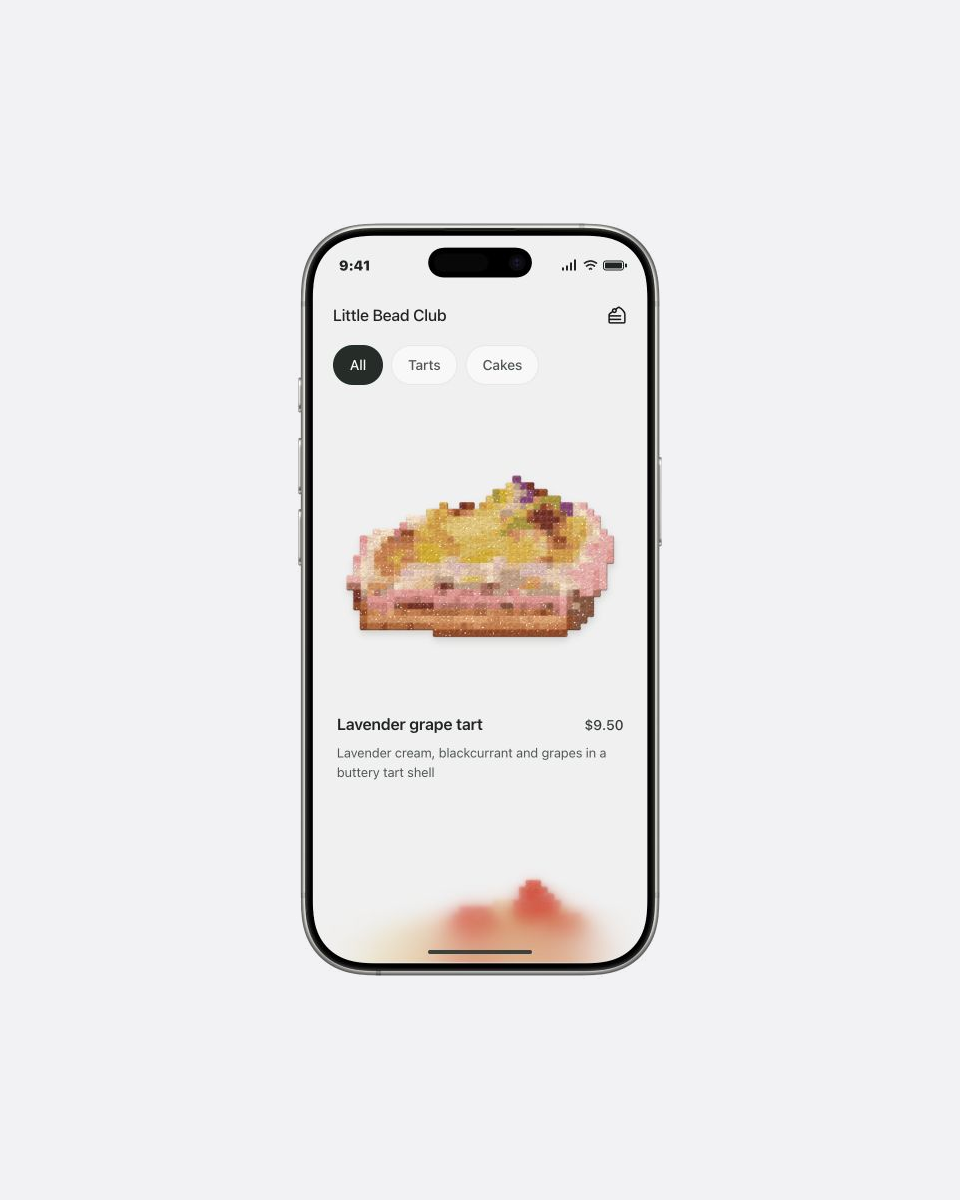
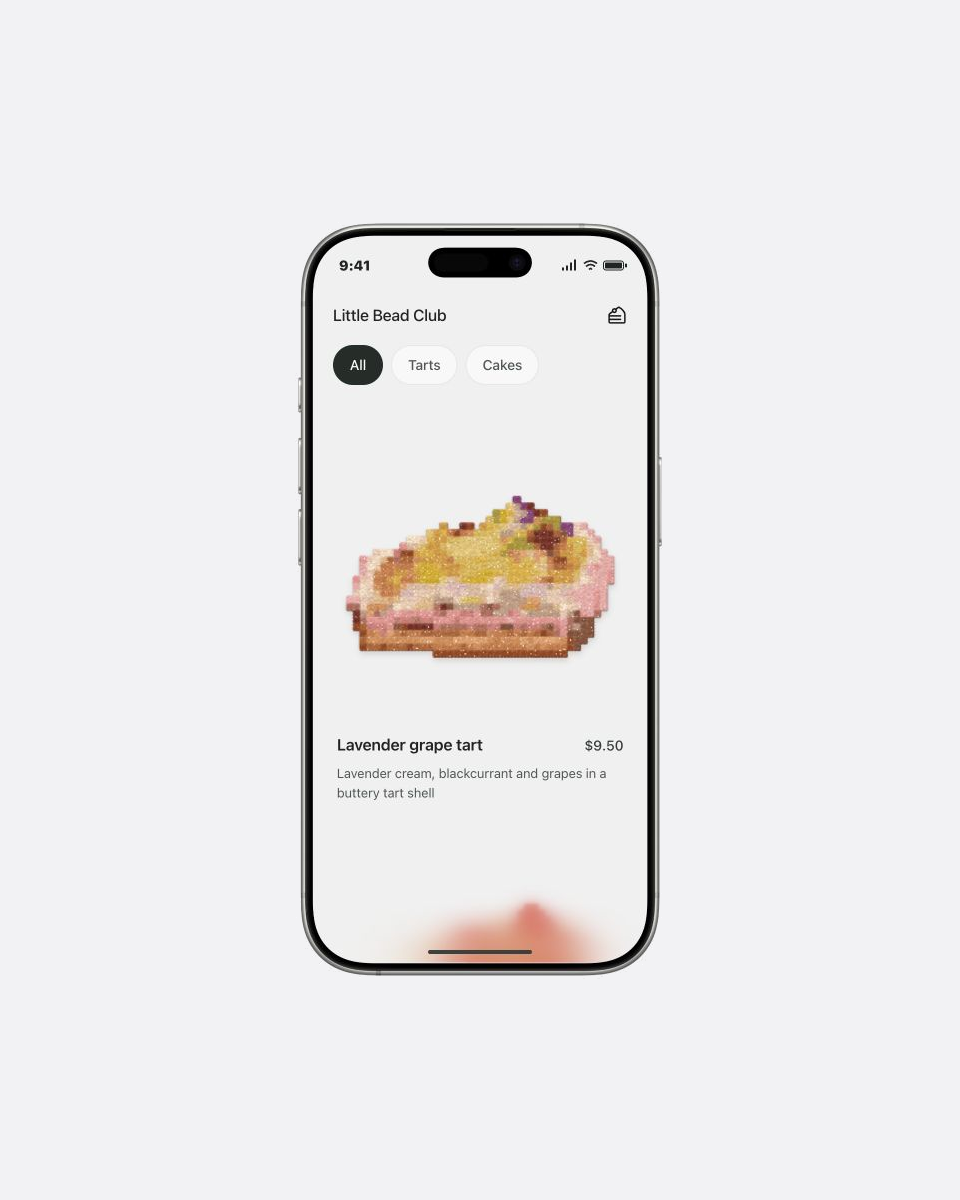
Add gentle 3D cake sparkle and centered scroll zoom [skip deploy]

Changed region(s): [[0.3438, 0.4008, 0.6562, 0.555], [0.3438, 0.5858, 0.6562, 0.6783], [0.375, 0.7092, 0.625, 0.8017]]

diff --git a/components/play/bead-club/bead-club.tsx b/components/play/bead-club/bead-club.tsx
@@ -17,6 +17,7 @@ type BeadMaterial = "pressed" | "frosted" | "glitter" | "terry" | "jelly";
 type Artwork = { id: string; name: string; price: string; description: string; detailDescription: string; category: "Tarts" | "Cakes"; beads: Bead[]; material: BeadMaterial; translucentColors?: readonly string[] };
 const PHONE_HEIGHT = 390 * 2822 / 1406;
 const APP_BACKGROUND = "#f2f2f2";
+const CAKE_FOCUS_OFFSET = 50;
 // Simplified from the user-supplied cake illustration sheet. Each occupied cell
 // represents one bead, with exactly 700 beads per cake and a limited color palette.
 // The reference artwork retains its own rights, separate from the component code.
@@ -1047,7 +1048,7 @@ function physicalMaterials(art: Artwork): BeadMaterials {
   return { faces: [face, side], mask: jelly ? new THREE.MeshBasicMaterial({ color: 0xffffff, alphaMap: opacityMap, transparent: true, depthWrite: true }) : undefined };
 }
 
-type BeadStudio = { renderer: THREE.WebGLRenderer; scene: THREE.Scene; camera: THREE.OrthographicCamera; mesh: THREE.Mesh; materials: Map<string, BeadMaterials>; completed: Map<string, THREE.BufferGeometry> };
+type BeadStudio = { renderer: THREE.WebGLRenderer; light: THREE.DirectionalLight; scene: THREE.Scene; camera: THREE.PerspectiveCamera; mesh: THREE.Mesh; materials: Map<string, BeadMaterials>; completed: Map<string, THREE.BufferGeometry> };
 let beadStudio: BeadStudio | undefined;
 let beadWebGLUnavailable = false;
 function getBeadStudio() {
@@ -1068,18 +1069,19 @@ function getBeadStudio() {
   light.shadow.mapSize.set(512, 512); light.shadow.bias = -.0002; light.shadow.normalBias = .03; light.shadow.radius = 3.5;
   scene.add(light);
   const mesh = new THREE.Mesh(new THREE.BufferGeometry(), new THREE.MeshPhysicalMaterial()); mesh.castShadow = true; mesh.receiveShadow = true; scene.add(mesh);
-  const camera = new THREE.OrthographicCamera(-23, 23, 23, -23, .1, 180); camera.position.set(0, 0, 95); camera.up.set(0, 1, 0); camera.lookAt(0, 0, 0);
-  beadStudio = { renderer, scene, camera, mesh, materials: new Map(), completed: new Map() };
+  const camera = new THREE.PerspectiveCamera(27, 1, .1, 180); camera.position.set(0, 0, 95); camera.up.set(0, 1, 0); camera.lookAt(0, 0, 0);
+  beadStudio = { renderer, light, scene, camera, mesh, materials: new Map(), completed: new Map() };
   return beadStudio;
 }
 
-function drawPhysicalBeads(canvas: HTMLCanvasElement, art: Artwork, count: number) {
+type BeadPose = { rotationX: number; rotationY: number; rotationZ: number; lift: number; shimmer: number; time: number };
+function drawPhysicalBeads(canvas: HTMLCanvasElement, art: Artwork, count: number, pose: BeadPose = { rotationX: 0, rotationY: 0, rotationZ: 0, lift: 0, shimmer: 0, time: 0 }) {
   const studio = getBeadStudio();
   if (!studio || studio.renderer.getContext().isContextLost()) return false;
   const rect = canvas.getBoundingClientRect(); if (!rect.width || !rect.height) return false;
   const pixelRatio = Math.min(window.devicePixelRatio || 1, 2);
   const width = Math.ceil(rect.width * pixelRatio), height = Math.ceil(rect.height * pixelRatio);
-  canvas.width = width; canvas.height = height;
+  if (canvas.width !== width || canvas.height !== height) { canvas.width = width; canvas.height = height; }
   const ctx = canvas.getContext("2d")!; ctx.clearRect(0, 0, width, height);
   if (!count) return true;
   let geometry = count === art.beads.length ? studio.completed.get(art.id) : undefined;
@@ -1093,20 +1095,49 @@ function drawPhysicalBeads(canvas: HTMLCanvasElement, art: Artwork, count: numbe
   }
   const materials = studio.materials.get(art.id) ?? physicalMaterials(art); studio.materials.set(art.id, materials);
   studio.mesh.geometry = geometry; studio.mesh.material = materials.faces;
+  studio.mesh.rotation.set(pose.rotationX, pose.rotationY, pose.rotationZ);
+  studio.mesh.position.z = pose.lift;
+  studio.light.position.set(-28 + Math.sin(pose.time * .6) * 4 * pose.shimmer, 38 + Math.cos(pose.time * .45) * 3 * pose.shimmer, 32);
   const aspect = width / height, viewHeight = Math.max(45, 43 / aspect);
-  Object.assign(studio.camera, { left: -viewHeight * aspect / 2, right: viewHeight * aspect / 2, top: viewHeight / 2, bottom: -viewHeight / 2 }); studio.camera.updateProjectionMatrix();
+  studio.camera.aspect = aspect; studio.camera.fov = 2 * Math.atan(viewHeight / (2 * 95)) * 180 / Math.PI; studio.camera.updateProjectionMatrix();
   studio.scene.background = materials.mask ? new THREE.Color(APP_BACKGROUND) : null;
   studio.renderer.setSize(width, height, false); studio.renderer.render(studio.scene, studio.camera);
   // Blur only the alpha-derived cast shadow; keep the bead surface sharp.
   ctx.save();
   if (!materials.mask) {
     ctx.shadowColor = "rgba(73,61,48,.16)";
-    ctx.shadowBlur = 5 * pixelRatio;
-    ctx.shadowOffsetY = 3 * pixelRatio;
+    ctx.shadowBlur = (5 + pose.lift * .5) * pixelRatio;
+    ctx.shadowOffsetY = (3 + pose.lift * .5) * pixelRatio;
     ctx.shadowOffsetX = .5 * pixelRatio;
   }
   ctx.drawImage(studio.renderer.domElement, 0, 0);
   ctx.restore();
+  // A few reflective flakes brighten at different moments, anchored to actual
+  // bead centers and projected with the same rotation as the physical mesh.
+  let visibleGlints = 0;
+  if (pose.shimmer > 0) {
+    const point = new THREE.Vector3();
+    for (const bead of art.beads) {
+      const seed = ((bead.x * 73856093) ^ (bead.y * 19349663)) >>> 0;
+      if (seed % 19 !== 0) continue;
+      const pulse = Math.pow(Math.max(0, Math.sin(pose.time * (1.45 + seed % 7 * .11) + seed % 628 / 100)), 12) * pose.shimmer;
+      if (pulse < .12) continue;
+      const bx = bead.x + .5 - 20, by = 21 - bead.y - .5;
+      point.set(bx, by, .48).applyMatrix4(studio.mesh.matrixWorld).project(studio.camera);
+      const x = (point.x * .5 + .5) * width;
+      const y = (-point.y * .5 + .5) * height;
+      const radius = (seed % 3 === 0 ? 2.5 : 1.3) * pixelRatio;
+      ctx.save(); ctx.globalAlpha = pulse * .88;
+      ctx.fillStyle = "#fffdf4"; ctx.shadowColor = "#fff5d5"; ctx.shadowBlur = radius * 1.3;
+      ctx.beginPath(); ctx.moveTo(x, y - radius); ctx.quadraticCurveTo(x + radius * .16, y - radius * .16, x + radius, y); ctx.quadraticCurveTo(x + radius * .16, y + radius * .16, x, y + radius); ctx.quadraticCurveTo(x - radius * .16, y + radius * .16, x - radius, y); ctx.quadraticCurveTo(x - radius * .16, y - radius * .16, x, y - radius); ctx.fill(); ctx.restore();
+      visibleGlints++;
+    }
+  }
+  canvas.dataset.rotationX = pose.rotationX.toFixed(5);
+  canvas.dataset.rotationY = pose.rotationY.toFixed(5);
+  canvas.dataset.rotationZ = pose.rotationZ.toFixed(5);
+  canvas.dataset.lift = pose.lift.toFixed(3);
+  canvas.dataset.glints = String(visibleGlints);
   if (materials.mask) {
     studio.scene.background = null; studio.mesh.material = materials.mask;
     studio.renderer.render(studio.scene, studio.camera);
@@ -1117,18 +1148,54 @@ function drawPhysicalBeads(canvas: HTMLCanvasElement, art: Artwork, count: numbe
   return true;
 }
 
-function BeadArt({ art, count = art.beads.length, }: { art: Artwork; count?: number }) {
+function BeadArt({ art, count = art.beads.length, interactive = false }: { art: Artwork; count?: number; interactive?: boolean }) {
   const ref = React.useRef<HTMLCanvasElement>(null);
+  const rotation = React.useRef({ x: 0, y: 0, z: 0, lift: 0 });
+  const targetRotation = React.useRef({ x: 0, y: 0, z: 0, lift: 0 });
   const [ready, setReady] = React.useState(false);
   React.useEffect(() => {
     const canvas = ref.current; if (!canvas) return;
-    let frame = 0, disposed = false, textureReady = false;
-    const paint = () => { if (!textureReady || disposed) return; cancelAnimationFrame(frame); frame = requestAnimationFrame(() => { try { if (drawPhysicalBeads(canvas, art, count)) setReady(true); } catch { setReady(false); } }); };
+    const reducedMotion = window.matchMedia("(prefers-reduced-motion: reduce)");
+    let frame = 0, disposed = false, textureReady = false, lastPaint = 0, rendered = false;
+    const started = performance.now();
+    if (!interactive) targetRotation.current = { x: 0, y: 0, z: 0, lift: 0 };
+    const render = (now: number) => {
+      frame = 0;
+      if (disposed || document.hidden || !textureReady) return;
+      const moving = !reducedMotion.matches;
+      const target = interactive && moving ? targetRotation.current : { x: 0, y: 0, z: 0, lift: 0 };
+      let settling = false;
+      for (const axis of ["x", "y", "z", "lift"] as const) {
+        const difference = target[axis] - rotation.current[axis];
+        rotation.current[axis] = moving ? rotation.current[axis] + difference * .095 : 0;
+        if (Math.abs(difference) < .00005) rotation.current[axis] = target[axis];
+        else if (moving) settling = true;
+      }
+      if (!rendered || !moving || now - lastPaint >= 1000 / 30) {
+        lastPaint = now;
+        try {
+          const success = drawPhysicalBeads(canvas, art, count, { rotationX: rotation.current.x, rotationY: rotation.current.y, rotationZ: rotation.current.z, lift: rotation.current.lift, shimmer: interactive && moving ? Math.min((now - started) / 650, 1) : 0, time: now / 1000 });
+          if (!rendered || !success) setReady(success);
+          rendered = success;
+        } catch { setReady(false); }
+      }
+      if (interactive && moving || settling) frame = requestAnimationFrame(render);
+    };
+    const paint = () => { if (textureReady && !disposed && !document.hidden && !frame) frame = requestAnimationFrame(render); };
     const observer = new ResizeObserver(paint); observer.observe(canvas);
+    document.addEventListener("visibilitychange", paint);
+    reducedMotion.addEventListener("change", paint);
     void loadBeadGrain().then(() => { textureReady = true; paint(); });
-    return () => { disposed = true; observer.disconnect(); cancelAnimationFrame(frame); };
-  }, [art, count]);
-  return <div className="bc-art bc-art-3d" role="img" aria-label={`${art.name}, ${art.material === "jelly" ? "translucent jelly" : art.material === "terry" ? "soft textured" : "pearlescent"} bead pattern`} data-material={art.material} data-render-mode={ready ? "physical" : "fallback"} data-placed={count} data-active-color={art.beads[Math.max(0, count - 1)]?.color}>
+    return () => { disposed = true; observer.disconnect(); cancelAnimationFrame(frame); document.removeEventListener("visibilitychange", paint); reducedMotion.removeEventListener("change", paint); };
+  }, [art, count, interactive]);
+  const tilt = (event: React.PointerEvent<HTMLDivElement>) => {
+    if (!interactive || event.pointerType === "touch" || window.matchMedia("(prefers-reduced-motion: reduce)").matches) return;
+    const rect = event.currentTarget.getBoundingClientRect();
+    const x = (event.clientX - rect.left) / rect.width - .5;
+    const y = (event.clientY - rect.top) / rect.height - .5;
+    targetRotation.current = { x: -y * .14, y: x * .18, z: x * .012, lift: 1.4 };
+  };
+  return <div className="bc-art bc-art-3d" role="img" aria-label={`${art.name}, ${art.material === "jelly" ? "translucent jelly" : art.material === "terry" ? "soft textured" : "pearlescent"} bead pattern`} data-material={art.material} data-render-mode={ready ? "physical" : "fallback"} data-interactive={interactive} data-placed={count} data-active-color={art.beads[Math.max(0, count - 1)]?.color} onPointerEnter={tilt} onPointerMove={tilt} onPointerLeave={() => { targetRotation.current = { x: 0, y: 0, z: 0, lift: 0 }; }}>
     <canvas ref={ref} aria-hidden="true" style={{ width: "100%", height: "100%", opacity: ready ? 1 : 0 }} />
     {!ready && <div aria-hidden="true" style={{ display: "contents" }}><FlatBeadArt art={art} count={count} /></div>}
   </div>;
@@ -1145,7 +1212,7 @@ function MenuGrid({ items, selectedId, detailShift, onOpen, onClose }: { items: 
     {items.map(art => {
       const expanded = art.id === selectedId;
       return <article className="bc-menu-card" key={art.id} data-expanded={expanded} data-dimmed={!!selectedId && !expanded} inert={!!selectedId && !expanded} aria-hidden={!!selectedId && !expanded} style={{ "--detail-shift": `${expanded ? detailShift : 0}px` } as React.CSSProperties}>
-        <button className="bc-menu-open" aria-label={`${expanded ? "Close" : "Open"} ${art.name}`} aria-expanded={expanded} onClick={event => expanded ? onClose() : onOpen(art, event.currentTarget)}><BeadArt art={art} /></button>
+        <button className="bc-menu-open" aria-label={`${expanded ? "Close" : "Open"} ${art.name}`} aria-expanded={expanded} onClick={event => expanded ? onClose() : onOpen(art, event.currentTarget)}><BeadArt art={art} interactive={expanded} /></button>
         <div className="bc-menu-caption">
           <div className="bc-caption-summary" aria-hidden={expanded} inert={expanded}><div className="bc-menu-heading"><h3>{art.name}</h3><p className="bc-menu-price">{art.price}</p></div><p className="bc-menu-description">{art.description}</p></div>
           <div className="bc-caption-detail" aria-hidden={!expanded} inert={!expanded}><div className="bc-menu-heading"><h3>About this cake</h3><p className="bc-menu-price">{art.price}</p></div><p className="bc-menu-description">{art.detailDescription}</p></div>
@@ -1161,6 +1228,7 @@ export function BeadClub({ loop = false, className }: BeadClubProps) {
   const back = React.useRef<HTMLButtonElement>(null);
   const menu = React.useRef<HTMLDivElement>(null);
   const scrollBeforeExpand = React.useRef(0);
+  const scrollZoomFrame = React.useRef(0);
   const [activeSection, setActiveSection] = React.useState(0);
   const menuId = React.useId();
   const [scale, setScale] = React.useState<number | null>(null);
@@ -1169,13 +1237,47 @@ export function BeadClub({ loop = false, className }: BeadClubProps) {
   const [detailTitle, setDetailTitle] = React.useState("");
   const selected = artworks.find(art => art.id === selectedId) ?? null;
   const category = menuSections[activeSection];
+  const syncScrollZoom = React.useCallback(() => {
+    const list = menu.current;
+    if (!list || list.dataset.expanded === "true") return;
+    const rect = list.getBoundingClientRect();
+    if (!rect.height) return;
+    const focusCenter = rect.top + rect.height / 2 - CAKE_FOCUS_OFFSET * rect.height / list.clientHeight;
+    const reduced = window.matchMedia("(prefers-reduced-motion: reduce)").matches;
+    // Read every position first, then update transforms without React renders.
+    const updates = [...list.querySelectorAll<HTMLButtonElement>(".bc-menu-open")].map(button => {
+      const bounds = button.getBoundingClientRect();
+      const distance = Math.abs(bounds.top + bounds.height / 2 - focusCenter);
+      const proximity = Math.max(0, 1 - distance / (rect.height * .6));
+      const eased = proximity * proximity * (3 - 2 * proximity);
+      return { button, zoom: reduced ? 1 : .96 + .04 * eased };
+    });
+    updates.forEach(({ button, zoom }) => button.style.setProperty("--focus-scale", zoom.toFixed(4)));
+  }, []);
+  const queueScrollZoom = React.useCallback(() => {
+    if (scrollZoomFrame.current) return;
+    scrollZoomFrame.current = requestAnimationFrame(() => { scrollZoomFrame.current = 0; syncScrollZoom(); });
+  }, [syncScrollZoom]);
+  React.useEffect(() => {
+    queueScrollZoom();
+    return () => { cancelAnimationFrame(scrollZoomFrame.current); scrollZoomFrame.current = 0; };
+  }, [activeSection, queueScrollZoom]);
   React.useEffect(() => {
     const element = host.current;
     if (!element) return;
-    const observer = new ResizeObserver(([entry]) => setScale(Math.max(0, Math.min((entry.contentRect.width - (loop ? 34 : 16)) / 390, (entry.contentRect.height - (loop ? 42 : 24)) / PHONE_HEIGHT, 1))));
+    const observer = new ResizeObserver(([entry]) => {
+      const list = menu.current;
+      if (list) {
+        // Source-phone coordinates stay fixed while the whole device scales.
+        const artSize = list.clientWidth - 36;
+        list.style.setProperty("--cake-snap-inset", `${(list.clientHeight - artSize) / 2}px`);
+      }
+      setScale(Math.max(0, Math.min((entry.contentRect.width - (loop ? 34 : 16)) / 390, (entry.contentRect.height - (loop ? 42 : 24)) / PHONE_HEIGHT, 1)));
+      queueScrollZoom();
+    });
     observer.observe(element);
     return () => observer.disconnect();
-  }, [loop]);
+  }, [loop, queueScrollZoom]);
   const open = (art: Artwork, button: HTMLButtonElement) => {
     lastCard.current = button;
     const list = menu.current;
@@ -1196,6 +1298,7 @@ export function BeadClub({ loop = false, className }: BeadClubProps) {
     requestAnimationFrame(() => {
       menu.current?.scrollTo({ top: scrollBeforeExpand.current, behavior: "instant" });
       lastCard.current?.focus({ preventScroll: true });
+      queueScrollZoom();
     });
   };
   return <div ref={host} className={`bc-stage ${className ?? ""}`} data-preview={loop ? "loop" : "interactive"} onKeyDown={event => { if (event.key === "Escape" && selectedId) close(); }}>
@@ -1210,7 +1313,7 @@ export function BeadClub({ loop = false, className }: BeadClubProps) {
             <CakeSlice className="bc-food-icon" size={21} strokeWidth={1.8} aria-hidden="true" />
           </header>
           <nav className="bc-menu-tabs" aria-label="Pattern categories" inert={!!selected} aria-hidden={!!selected}>{menuSections.map((section, index) => <button key={section.id} aria-pressed={activeSection === index} onClick={() => { setActiveSection(index); menu.current?.scrollTo({ top: 0, behavior: "instant" }); }}>{section.title}</button>)}</nav>
-          <div ref={menu} className="bc-list" aria-label={selected ? `${selected.name} details` : "Cake menu"} data-expanded={!!selected}>
+          <div ref={menu} className="bc-list" aria-label={selected ? `${selected.name} details` : "Cake menu"} data-expanded={!!selected} onScroll={queueScrollZoom}>
             <section className="bc-menu-section" key={category.id} aria-labelledby={`${menuId}-${category.id}`}>
               <h2 className="bc-sr-only" id={`${menuId}-${category.id}`}>{category.title}</h2>
               <MenuGrid items={category.items} selectedId={selectedId} detailShift={detailShift} onOpen={open} onClose={close} />
@@ -1239,13 +1342,13 @@ const styles = `
 .bc-header::before{content:'';position:absolute;left:0;right:0;top:-55px;bottom:-28px;z-index:-1;background:transparent;backdrop-filter:blur(14px);-webkit-backdrop-filter:blur(14px);mask-image:linear-gradient(#000 0%,#000 68%,transparent 100%);-webkit-mask-image:linear-gradient(#000 0%,#000 68%,transparent 100%);pointer-events:none}
 .bc-collection{position:relative;height:calc(100% - 55px);display:flex;flex-direction:column}.bc-header{position:absolute;top:0;left:0;right:0;z-index:8;flex-shrink:0;min-height:48px;color:#242a26;padding:6px 20px 10px;display:flex;align-items:center;justify-content:space-between;gap:8px;font-size:16px;font-weight:500;letter-spacing:-.25px}.bc-food-icon{flex-shrink:0;color:#171b18;filter:none;background:none;box-shadow:none}
 .bc-menu-tabs{position:absolute;top:48px;left:0;right:0;display:flex;align-items:center;gap:8px;flex-shrink:0;overflow-x:auto;scrollbar-width:none;padding:4px 20px 8px;min-height:56px;z-index:8}.bc-menu-tabs button{flex-shrink:0;min-height:40px;border:1px solid #242a2614;border-radius:999px;background:#ffffff80;padding:0 16px;font-size:14px;font-weight:500;white-space:nowrap;color:#58635b}.bc-menu-tabs button[aria-pressed="true"]{color:#fff;background:#28332c;border-color:#28332c}
-.bc-list{position:absolute;inset:0;min-height:0;overflow-y:auto;overscroll-behavior:contain;padding:116px 18px 132px;scrollbar-width:none}.bc-list::-webkit-scrollbar{display:none}.bc-menu-section{padding:0}.bc-food-grid{display:grid;grid-template-columns:minmax(0,1fr);row-gap:36px;align-items:start}.bc-menu-card{min-width:0;position:relative;transform:translateY(var(--detail-shift,0px));transition:opacity .24s ease,transform .8s cubic-bezier(.22,.68,.2,1);will-change:auto}.bc-menu-card[data-dimmed="true"]{opacity:0;pointer-events:none}.bc-menu-card[data-expanded="true"]{z-index:4}.bc-menu-open{display:block;width:100%;height:auto;aspect-ratio:1;border:0;background:transparent;padding:0;transform:scale(1);transition:transform .85s cubic-bezier(.22,.68,.2,1)}.bc-menu-card[data-expanded="true"] .bc-menu-open{transform:scale(1.08)}.bc-menu-caption{position:relative;padding:8px 6px 0;text-align:left}.bc-caption-summary{opacity:1;filter:blur(0);transform:translateY(0);transition:opacity .22s ease,filter .22s ease,transform .35s ease}.bc-caption-detail{position:absolute;top:8px;left:6px;right:6px;opacity:0;filter:blur(3px);transform:translateY(8px);pointer-events:none;transition:opacity .22s ease,filter .22s ease,transform .35s ease}.bc-menu-card[data-expanded="true"] .bc-caption-summary{opacity:0;filter:blur(3px);transform:translateY(-5px)}.bc-menu-card[data-expanded="true"] .bc-caption-detail{opacity:1;filter:blur(0);transform:translateY(0);pointer-events:auto;transition:opacity .5s .18s ease,filter .5s .18s ease,transform .65s .18s ease}.bc-menu-heading{display:flex;align-items:baseline;justify-content:space-between;gap:16px}.bc-menu-heading>h2,.bc-menu-heading>h3{min-width:0}.bc-menu-caption h3{font-size:16px;line-height:1.35;font-weight:600;letter-spacing:-.2px;margin:0;overflow-wrap:anywhere}.bc-menu-price{flex-shrink:0;font-size:14px;line-height:1.4;font-weight:500;margin:0;color:#3b453e;white-space:nowrap;font-variant-numeric:tabular-nums}.bc-menu-description{font-size:13px;line-height:1.5;color:#58635b;margin:8px 0 0}.bc-stage svg{flex-shrink:0}
+.bc-list{position:absolute;inset:0;min-height:0;overflow-y:auto;overscroll-behavior:contain;scroll-snap-type:y mandatory;scroll-padding:${114 - CAKE_FOCUS_OFFSET}px 0 ${114 + CAKE_FOCUS_OFFSET}px;padding:calc(var(--cake-snap-inset,188px) - ${CAKE_FOCUS_OFFSET}px) 18px calc(var(--cake-snap-inset,188px) + ${CAKE_FOCUS_OFFSET}px);scrollbar-width:none}.bc-list::-webkit-scrollbar{display:none}.bc-menu-section{padding:0}.bc-food-grid{display:grid;grid-template-columns:minmax(0,1fr);row-gap:36px;align-items:start}.bc-menu-card{min-width:0;position:relative;transform:translateY(var(--detail-shift,0px));transition:opacity .24s ease,transform .8s cubic-bezier(.22,.68,.2,1);will-change:auto}.bc-menu-card[data-dimmed="true"]{opacity:0;pointer-events:none}.bc-menu-card[data-expanded="true"]{z-index:4}.bc-menu-open{scroll-snap-align:center;scroll-snap-stop:always;display:block;width:100%;height:auto;aspect-ratio:1;border:0;background:transparent;padding:0;transform:scale(var(--focus-scale,1));transition:transform .7s cubic-bezier(.22,1,.36,1)}.bc-menu-card[data-expanded="true"] .bc-menu-open{transform:scale(1.04);transition-duration:1.05s}.bc-menu-caption{position:relative;padding:8px 6px 0;text-align:left}.bc-caption-summary{opacity:1;filter:blur(0);transform:translateY(0);transition:opacity .22s ease,filter .22s ease,transform .35s ease}.bc-caption-detail{position:absolute;top:8px;left:6px;right:6px;opacity:0;filter:blur(3px);transform:translateY(8px);pointer-events:none;transition:opacity .22s ease,filter .22s ease,transform .35s ease}.bc-menu-card[data-expanded="true"] .bc-caption-summary{opacity:0;filter:blur(3px);transform:translateY(-5px)}.bc-menu-card[data-expanded="true"] .bc-caption-detail{opacity:1;filter:blur(0);transform:translateY(0);pointer-events:auto;transition:opacity .5s .18s ease,filter .5s .18s ease,transform .65s .18s ease}.bc-menu-heading{display:flex;align-items:baseline;justify-content:space-between;gap:16px}.bc-menu-heading>h2,.bc-menu-heading>h3{min-width:0}.bc-menu-caption h3{font-size:16px;line-height:1.35;font-weight:600;letter-spacing:-.2px;margin:0;overflow-wrap:anywhere}.bc-menu-price{flex-shrink:0;font-size:14px;line-height:1.4;font-weight:500;margin:0;color:#3b453e;white-space:nowrap;font-variant-numeric:tabular-nums}.bc-menu-description{font-size:13px;line-height:1.5;color:#58635b;margin:8px 0 0}.bc-stage svg{flex-shrink:0}
 .bc-art{width:100%;height:100%;display:block;overflow:visible;filter:drop-shadow(.5px 3px 3.5px #493d3029)}.bc-art-3d{position:relative;filter:none}.bc-art-3d>canvas{position:absolute;inset:0;pointer-events:none}
 .bc-home{position:absolute;width:104px;height:4px;border-radius:4px;background:#424b45;bottom:9px;left:50%;transform:translateX(-50%);z-index:10}
 .bc-top-glass{position:absolute;top:0;left:0;right:0;height:176px;pointer-events:none;z-index:6;background:transparent}.bc-top-glass i{position:absolute;inset:0;backdrop-filter:blur(2px);-webkit-backdrop-filter:blur(2px);mask-image:linear-gradient(#000 60%,transparent);-webkit-mask-image:linear-gradient(#000 60%,transparent)}.bc-top-glass i:nth-child(2){height:150px;backdrop-filter:blur(6px);-webkit-backdrop-filter:blur(6px)}.bc-top-glass i:nth-child(3){height:128px;backdrop-filter:blur(12px);-webkit-backdrop-filter:blur(12px)}.bc-top-glass i:nth-child(4){height:106px;backdrop-filter:blur(20px);-webkit-backdrop-filter:blur(20px)}
 .bc-glass-edge{position:absolute;bottom:0;left:0;right:0;height:124px;pointer-events:none;z-index:9;background:transparent}.bc-glass-edge i{position:absolute;inset:0;backdrop-filter:blur(2px);-webkit-backdrop-filter:blur(2px);mask-image:linear-gradient(transparent,#000 75%);-webkit-mask-image:linear-gradient(transparent,#000 75%)}.bc-glass-edge i:nth-child(2){top:20px;backdrop-filter:blur(6px);-webkit-backdrop-filter:blur(6px)}.bc-glass-edge i:nth-child(3){top:42px;backdrop-filter:blur(12px);-webkit-backdrop-filter:blur(12px)}.bc-glass-edge i:nth-child(4){top:64px;backdrop-filter:blur(20px);-webkit-backdrop-filter:blur(20px)}
 .bc-glass-reflection{position:absolute;inset:0;border-radius:inherit;z-index:7;pointer-events:none;box-shadow:inset 0 0 2px #fff4}
 /* The cake canvas stays in its original card throughout expansion. */
-.bc-header-copy{position:relative;flex:1;min-width:0;min-height:36px;display:flex;align-items:center}.bc-brand{opacity:1;filter:blur(0);transition:opacity .18s ease,filter .18s ease}.bc-detail-header{position:absolute;inset:0;display:flex;align-items:center;gap:9px;opacity:0;filter:blur(3px);pointer-events:none;transition:opacity .2s ease,filter .2s ease}.bc-detail-title{min-width:0;margin:0;font-size:15px;line-height:1.3;font-weight:600;letter-spacing:-.2px}.bc-icon{width:36px;height:36px;flex:0 0 36px;border:1px solid #242a2624;background:#ffffff50;backdrop-filter:blur(10px);-webkit-backdrop-filter:blur(10px);box-shadow:none;display:grid;place-items:center;border-radius:50%}.bc-menu-tabs{opacity:1;filter:blur(0);transition:opacity .2s ease,filter .2s ease}.bc-screen[data-detail="true"] .bc-brand{opacity:0;filter:blur(3px)}.bc-screen[data-detail="true"] .bc-detail-header{opacity:1;filter:blur(0);pointer-events:auto;transition:opacity .45s .16s ease,filter .45s .16s ease}.bc-screen[data-detail="true"] .bc-menu-tabs{opacity:0;filter:blur(3px);pointer-events:none}.bc-list[data-expanded="true"]{overflow:hidden}
-@media(prefers-reduced-motion:reduce){.bc-stage *{transition-duration:.01ms!important;transition-delay:0ms!important}}
+.bc-header-copy{position:relative;flex:1;min-width:0;min-height:36px;display:flex;align-items:center}.bc-brand{opacity:1;filter:blur(0);transition:opacity .18s ease,filter .18s ease}.bc-detail-header{position:absolute;inset:0;display:flex;align-items:center;gap:9px;opacity:0;filter:blur(3px);pointer-events:none;transition:opacity .2s ease,filter .2s ease}.bc-detail-title{min-width:0;margin:0;font-size:15px;line-height:1.3;font-weight:600;letter-spacing:-.2px}.bc-icon{width:36px;height:36px;flex:0 0 36px;border:1px solid #242a2624;background:#ffffff50;backdrop-filter:blur(10px);-webkit-backdrop-filter:blur(10px);box-shadow:none;display:grid;place-items:center;border-radius:50%}.bc-menu-tabs{opacity:1;filter:blur(0);transition:opacity .2s ease,filter .2s ease}.bc-screen[data-detail="true"] .bc-brand{opacity:0;filter:blur(3px)}.bc-screen[data-detail="true"] .bc-detail-header{opacity:1;filter:blur(0);pointer-events:auto;transition:opacity .45s .16s ease,filter .45s .16s ease}.bc-screen[data-detail="true"] .bc-menu-tabs{opacity:0;filter:blur(3px);pointer-events:none}.bc-list[data-expanded="true"]{overflow:hidden;scroll-snap-type:none}
+@media(prefers-reduced-motion:reduce){.bc-stage *{transition-duration:.01ms!important;transition-delay:0ms!important}.bc-menu-open{transform:scale(1)!important}}
 `;

diff --git a/src/lib/component-registry.ts b/src/lib/component-registry.ts
@@ -109,7 +109,7 @@ export const componentRegistry = {
     index: "022",
     title: "Bead Club",
     description:
-      "Nine cake designs adapted from a supplied illustration sheet, each made of 700 fused beads with soft texture, fine glitter, natural depth and a softly blurred shadow. Browse a static single-column menu with one large cake per row inside a silver iPhone, with category buttons, prices, descriptions and transparent progressive blur at the top and bottom. Tap a cake to gently enlarge it in place while surrounding text fades into ingredient notes, with a persistent back icon and cake title above.",
+      "Nine cake designs adapted from a supplied illustration sheet, each made of 700 fused beads with soft texture, fine glitter, natural depth and a softly blurred shadow. Browse a single-column menu with centered scroll snapping, a gentle slide-in zoom and one large cake per row inside a silver iPhone, with category buttons, prices, descriptions and transparent progressive blur at the top and bottom. Tap a cake to gently enlarge it in place while surrounding text fades into ingredient notes, with a persistent back icon and cake title above. Expanded cakes twinkle with reflective glints and respond to the pointer with a gentle 3D card tilt and forward lift. Cakes settle slightly above the screen center for a balanced composition.",
     category: "Play",
     status: "NEW",
     statusClassName: "bg-[var(--jitter-orange)]/12 text-[var(--jitter-orange)]",

diff --git a/components/play/bead-club/README.md b/components/play/bead-club/README.md
@@ -1,6 +1,6 @@
 # Bead Club
 
-Nine cake designs adapted from a supplied illustration sheet, each made of 700 fused beads with soft texture, fine glitter, natural depth and a softly blurred shadow. Browse a static single-column menu with one large cake per row inside a silver iPhone, with category buttons, prices, descriptions and transparent progressive blur at the top and bottom. Tap a cake to gently enlarge it in place while surrounding text fades into ingredient notes, with a persistent back icon and cake title above.
+Nine cake designs adapted from a supplied illustration sheet, each made of 700 fused beads with soft texture, fine glitter, natural depth and a softly blurred shadow. Browse a single-column menu with centered scroll snapping, a gentle slide-in zoom and one large cake per row inside a silver iPhone, with category buttons, prices, descriptions and transparent progressive blur at the top and bottom. Tap a cake to gently enlarge it in place while surrounding text fades into ingredient notes, with a persistent back icon and cake title above. Expanded cakes twinkle with reflective glints and respond to the pointer with a gentle 3D card tilt and forward lift. Cakes settle slightly above the screen center for a balanced composition.
 
 ![Bead Club preview](https://atomicmotion.dev/previews/bead-club.png)
 
